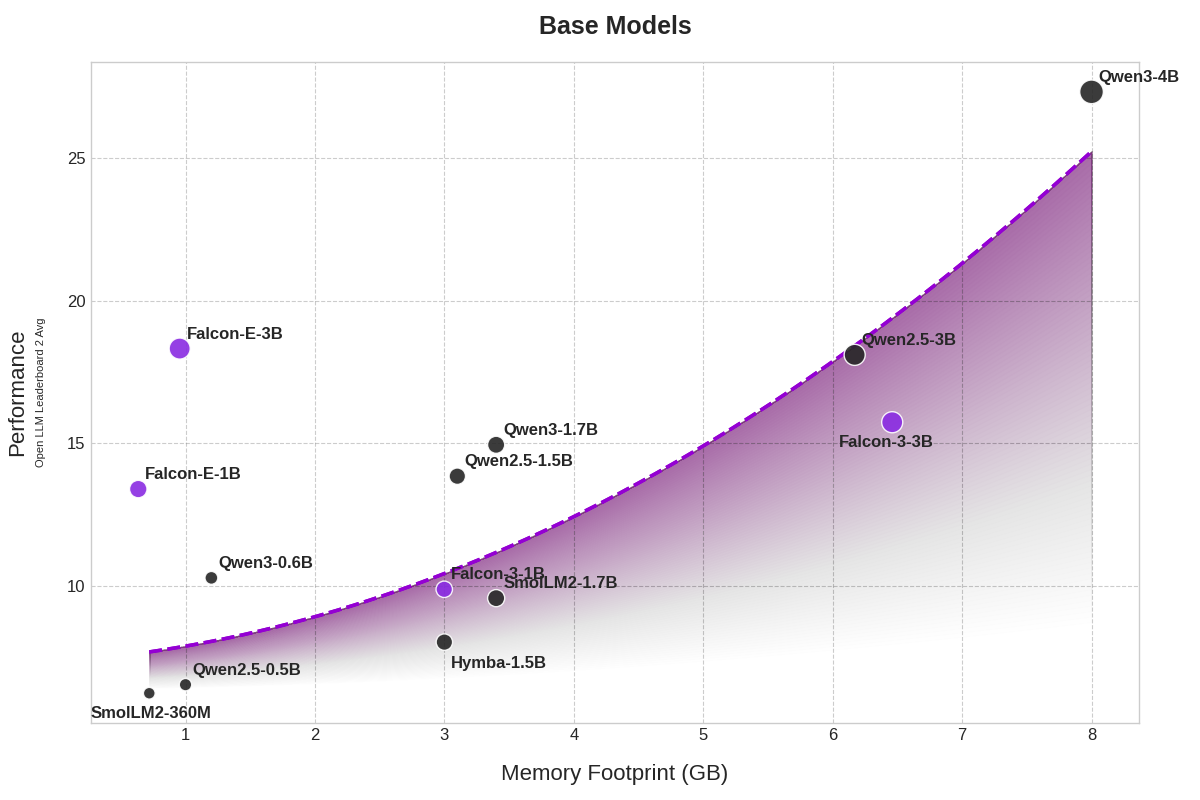
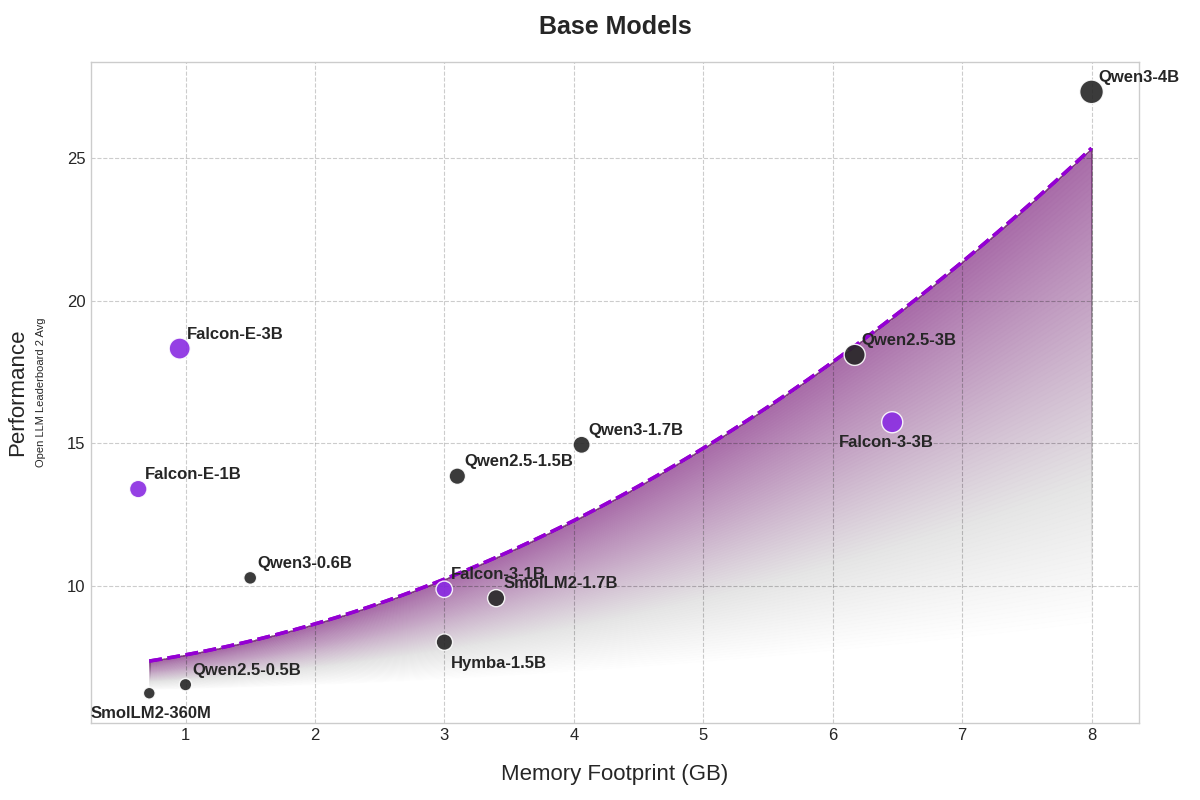
revised content with qwen3 results

diff --git a/content/blog/falcon-edge/index.md b/content/blog/falcon-edge/index.md
@@ -103,51 +103,65 @@ We evaluate our models (base and instruct versions) on the former Hugging Face l
 
 {{< barplot_vertical id="general-plt" highlight="Falcon-E-1B-Base" ymin="0" ymax="0.50" ylabel="Performance %" >}}
 [
-    { "category": "IFEVAL", "model": "Qwen-2.5-0.5B", "value": 0.1627 },
+    { "category": "IFEVAL", "model": "Qwen2.5-0.5B", "value": 0.1627 },
+    { "category": "IFEVAL", "model": "Qwen3-0.6B", "value": 0.2319 },
     { "category": "IFEVAL", "model": "SmolLM2-360M", "value": 0.2115 },
-    { "category": "IFEVAL", "model": "Qwen-2.5-1.5B", "value": 0.2674 },
+    { "category": "IFEVAL", "model": "Qwen2.5-1.5B", "value": 0.2674 },
+    { "category": "IFEVAL", "model": "Qwen3-1.7B", "value": 0.2681 },
     { "category": "IFEVAL", "model": "SmolLM2-1.7B", "value": 0.244 },
     { "category": "IFEVAL", "model": "Falcon-3-1B-Base", "value": 0.2428 },
     { "category": "IFEVAL", "model": "Falcon-E-1B-Base", "value": 0.3290 },
 
-    { "category": "Math-Hard", "model": "Qwen-2.5-0.5B", "value": 0.0393 },
+    { "category": "Math-Hard", "model": "Qwen2.5-0.5B", "value": 0.0393 },
+    { "category": "Math-Hard", "model": "Qwen3-0.6B", "value": 0.0589 },
     { "category": "Math-Hard", "model": "SmolLM2-360M", "value": 0.0121 },
-    { "category": "Math-Hard", "model": "Qwen-2.5-1.5B", "value": 0.0914 },
+    { "category": "Math-Hard", "model": "Qwen2.5-1.5B", "value": 0.0914 },
+    { "category": "Math-Hard", "model": "Qwen3-1.7B", "value": 0.1395 },
     { "category": "Math-Hard", "model": "SmolLM2-1.7B", "value": 0.0264 },
     { "category": "Math-Hard", "model": "Falcon-3-1B-Base", "value": 0.0332 },
     { "category": "Math-Hard", "model": "Falcon-E-1B-Base", "value": 0.1097 },
 
-    { "category": "GPQA", "model": "Qwen-2.5-0.5B", "value": 0.00 },
+    { "category": "GPQA", "model": "Qwen2.5-0.5B", "value": 0.00 },
+    { "category": "GPQA", "model": "Qwen3-0.6B", "value": 0.0378 },
     { "category": "GPQA", "model": "SmolLM2-360M", "value": 0.00 },
-    { "category": "GPQA", "model": "Qwen-2.5-1.5B", "value": 0.0470 },
+    { "category": "GPQA", "model": "Qwen2.5-1.5B", "value": 0.0470 },
+    { "category": "GPQA", "model": "Qwen3-1.7B", "value": 0.0671 },
     { "category": "GPQA", "model": "SmolLM2-1.7B", "value": 0.0391 },
     { "category": "GPQA", "model": "Falcon-3-1B-Base", "value": 0.0391 },
     { "category": "GPQA", "model": "Falcon-E-1B-Base", "value": 0.0280 },
 
-    { "category": "MuSR", "model": "Qwen-2.5-0.5B", "value": 0.0208 },
+    { "category": "MuSR", "model": "Qwen2.5-0.5B", "value": 0.0208 },
+    { "category": "MuSR", "model": "Qwen3-0.6B", "value": 0.0338 },
     { "category": "MuSR", "model": "SmolLM2-360M", "value": 0.0773 },
-    { "category": "MuSR", "model": "Qwen-2.5-1.5B", "value": 0.0527 },
+    { "category": "MuSR", "model": "Qwen2.5-1.5B", "value": 0.0527 },
+    { "category": "MuSR", "model": "Qwen3-1.7B", "value": 0.1364 },
     { "category": "MuSR", "model": "SmolLM2-1.7B", "value": 0.0460 },
     { "category": "MuSR", "model": "Falcon-3-1B-Base", "value": 0.0971 },
     { "category": "MuSR", "model": "Falcon-E-1B-Base", "value": 0.0365 },
 
-    { "category": "BBH", "model": "Qwen-2.5-0.5B", "value": 0.0695 },
+    { "category": "BBH", "model": "Qwen2.5-0.5B", "value": 0.0695 },
+    { "category": "BBH", "model": "Qwen3-0.6B", "value": 0.1175 },
     { "category": "BBH", "model": "SmolLM2-360M", "value": 0.0554 },
-    { "category": "BBH", "model": "Qwen-2.5-1.5B", "value": 0.1666 },
+    { "category": "BBH", "model": "Qwen2.5-1.5B", "value": 0.1666 },
+    { "category": "BBH", "model": "Qwen3-1.7B", "value": 0.2040 },
     { "category": "BBH", "model": "SmolLM2-1.7B", "value": 0.0930 },
     { "category": "BBH", "model": "Falcon-3-1B-Base", "value": 0.1134 },
     { "category": "BBH", "model": "Falcon-E-1B-Base", "value": 0.1228 },
 
-    { "category": "MMLU-Pro", "model": "Qwen-2.5-0.5B", "value": 0.1006 },
+    { "category": "MMLU-Pro", "model": "Qwen2.5-0.5B", "value": 0.1006 },
+    { "category": "MMLU-Pro", "model": "Qwen3-0.6B", "value": 0.1398 },
     { "category": "MMLU-Pro", "model": "SmolLM2-360M", "value": 0.0188 },
-    { "category": "MMLU-Pro", "model": "Qwen-2.5-1.5B", "value": 0.2061 },
+    { "category": "MMLU-Pro", "model": "Qwen2.5-1.5B", "value": 0.2061 },
+    { "category": "MMLU-Pro", "model": "Qwen3-1.7B", "value": 0.2645 },
     { "category": "MMLU-Pro", "model": "SmolLM2-1.7B", "value": 0.1264 },
     { "category": "MMLU-Pro", "model": "Falcon-3-1B-Base", "value": 0.0676 },
     { "category": "MMLU-Pro", "model": "Falcon-E-1B-Base", "value": 0.1782 },
 
-    { "category": "Avg", "model": "Qwen-2.5-0.5B", "value": 0.0655 },
+    { "category": "Avg", "model": "Qwen2.5-0.5B", "value": 0.0655 },
+    { "category": "Avg", "model": "Qwen3-0.6B", "value": 0.1032 },
     { "category": "Avg", "model": "SmolLM2-360M", "value": 0.0625 },
-    { "category": "Avg", "model": "Qwen-2.5-1.5B", "value": 0.1385 },
+    { "category": "Avg", "model": "Qwen2.5-1.5B", "value": 0.1385 },
+    { "category": "Avg", "model": "Qwen3-1.7B", "value": 0.1799 },
     { "category": "Avg", "model": "SmolLM2-1.7B", "value": 0.0958 },
     { "category": "Avg", "model": "Falcon-3-1B-Base", "value": 0.0989 },
     { "category": "Avg", "model": "Falcon-E-1B-Base", "value": 0.1340 }
@@ -156,9 +170,11 @@ We evaluate our models (base and instruct versions) on the former Hugging Face l
 
 {{< barplot_vertical id="memory-ply" highlight="Falcon-E-1B-Base" ymin="0" ymax="4" ylabel="Memory Footprint (GB)" yaxis_percentage="false" >}}
 [    
-    { "category": "Memory Footprint", "model": "Qwen-2.5-0.5B", "value": 1.0 },
+    { "category": "Memory Footprint", "model": "Qwen2.5-0.5B", "value": 1.0 },
+    { "category": "Memory Footprint", "model": "Qwen3-0.6B", "value": 1.5 },
     { "category": "Memory Footprint", "model": "SmolLM2-360M", "value": 0.720 },
-    { "category": "Memory Footprint", "model": "Qwen-2.5-1.5B", "value": 3.1 },
+    { "category": "Memory Footprint", "model": "Qwen2.5-1.5B", "value": 3.1 },
+    { "category": "Memory Footprint", "model": "Qwen3-1.7B", "value": 4.06 },
     { "category": "Memory Footprint", "model": "SmolLM2-1.7B", "value": 3.4 },
     { "category": "Memory Footprint", "model": "Falcon-3-1B-Base", "value": 3.0 },
     { "category": "Memory Footprint", "model": "Falcon-E-1B-Base", "value": 0.665 }
@@ -170,9 +186,11 @@ We evaluate our models (base and instruct versions) on the former Hugging Face l
 
 | Model    | Nb Params | Mem Footprint | IFEVAL | Math-Hard | GPQA | MuSR | BBH | MMLU-Pro | Avg. |
 | -------- | ------- | ------- | ------- | ------ | ----- | ----- | ----- | ------ | ---- |
-| Qwen-2.5-0.5B | 0.5B | 1GB | 16.27  | 3.93 | 0.0 | 2.08 | 6.95 | 10.06 | 6.55 |
+| Qwen2.5-0.5B | 0.5B | 1GB | 16.27  | 3.93 | 0.0 | 2.08 | 6.95 | 10.06 | 6.55 |
+| Qwen3-0.6B | 0.6B | 1.5GB | 23.19  | 5.89 | 3.78 | 3.38 | 11.75 | 13.98 | 10.32 |
 | SmolLM2-360M | 0.36B | 720MB | 21.15  | 1.21 | 0.0 | 7.73 | 5.54 | 1.88 | 6.25 |
-| Qwen-2.5-1.5B | 1.5B  | 3.1GB  | 26.74 | 9.14 | 16.66 | 5.27 | 20.61 | 4.7  | 13.85 |
+| Qwen2.5-1.5B | 1.5B  | 3.1GB  | 26.74 | 9.14 | 16.66 | 5.27 | 20.61 | 4.7  | 13.85 |
+| Qwen3-1.7B | 1.5B  | 4.06GB  | 26.81 | 13.95 | 6.71 | 13.65 | 20.40 | 26.45  | 17.99 |
 | SmolLM2-1.7B  | 1.7B  | 3.4GB  | 24.4  | 2.64 | 9.3   | 4.6  | 12.64 | 3.91 | 9.58  |
 | Falcon-3-1B-Base | 1.5B | 3GB   | 24.28 | 3.32 | 11.34 | 9.71 | 6.76  | 3.91 | 9.89  |
 | Falcon-E-1B-Base | 1.8B | **665MB** | 32.9  | 10.97 | 2.8 | 3.65 | 12.28 | 17.82 | 13.40 |
@@ -233,61 +251,76 @@ We evaluate our models (base and instruct versions) on the former Hugging Face l
 
 </details>
 
-Below are the results for instruction fine-tuned models:
+Below are the results for instruction fine-tuned models (for Qwen3 series, we disable the thinking mode during evaluation):
 
 {{< barplot_vertical id="instruct-plt" highlight="Falcon-E-1B-Instruct" ymin="0" ymax="0.50" ylabel="Performance %" >}}
 [
-    { "category": "IFEVAL", "model": "Qwen-2.5-0.5B", "value": 0.3071 },
+    { "category": "IFEVAL", "model": "Qwen2.5-0.5B", "value": 0.3153 },
     { "category": "IFEVAL", "model": "SmolLM2-360M", "value": 0.3842 },
-    { "category": "IFEVAL", "model": "Qwen-2.5-1.5B", "value": 0.4476 },
+    { "category": "IFEVAL", "model": "Qwen2.5-1.5B", "value": 0.4476 },
+    { "category": "IFEVAL", "model": "Qwen3-0.6B", "value": 0.6215 },
+    { "category": "IFEVAL", "model": "Qwen3-1.7B", "value": 0.7077 },
     { "category": "IFEVAL", "model": "SmolLM2-1.7B", "value": 0.5368 },
     { "category": "IFEVAL", "model": "Bitnet-b1.58-2B-4T", "value": 0.5911 },
     { "category": "IFEVAL", "model": "Falcon-3-1B-Instruct", "value": 0.5557 },
     { "category": "IFEVAL", "model": "Falcon-E-1B-Instruct", "value": 0.5435 },
 
-    { "category": "Math-Hard", "model": "Qwen-2.5-0.5B", "value": 0.0 },
+
+    { "category": "Math-Hard", "model": "Qwen2.5-0.5B", "value": 0.1035 },
+    { "category": "Math-Hard", "model": "Qwen3-0.6B", "value": 0.1615 },
     { "category": "Math-Hard", "model": "SmolLM2-360M", "value": 0.0151 },
-    { "category": "Math-Hard", "model": "Qwen-2.5-1.5B", "value": 0.2205 },
+    { "category": "Math-Hard", "model": "Qwen2.5-1.5B", "value": 0.2205 },
+    { "category": "Math-Hard", "model": "Qwen3-1.7B", "value": 0.3817 },
     { "category": "Math-Hard", "model": "SmolLM2-1.7B", "value": 0.0582 },
     { "category": "Math-Hard", "model": "Bitnet-b1.58-2B-4T", "value": 0.07233 },
     { "category": "Math-Hard", "model": "Falcon-3-1B-Instruct", "value": 0.0634 },
     { "category": "Math-Hard", "model": "Falcon-E-1B-Instruct", "value": 0.0912 },
 
-    { "category": "BBH", "model": "Qwen-2.5-0.5B", "value": 0.0843 },
+    { "category": "BBH", "model": "Qwen2.5-0.5B", "value": 0.0817 },
+    { "category": "BBH", "model": "Qwen3-0.6B", "value": 0.0613 },
     { "category": "BBH", "model": "SmolLM2-360M", "value": 0.0417 },
-    { "category": "BBH", "model": "Qwen-2.5-1.5B", "value": 0.1981 },
+    { "category": "BBH", "model": "Qwen2.5-1.5B", "value": 0.1981 },
+    { "category": "BBH", "model": "Qwen3-1.7B", "value": 0.0926 },
     { "category": "BBH", "model": "SmolLM2-1.7B", "value": 0.1092 },
     { "category": "BBH", "model": "Bitnet-b1.58-2B-4T", "value": 0.1794},
     { "category": "BBH", "model": "Falcon-3-1B-Instruct", "value": 0.0932 },
     { "category": "BBH", "model": "Falcon-E-1B-Instruct", "value": 0.1650 },
 
-    { "category": "MuSR", "model": "Qwen-2.5-0.5B", "value": 0.0094 },
+    { "category": "MuSR", "model": "Qwen2.5-0.5B", "value": 0.0137 },
+    { "category": "MuSR", "model": "Qwen3-0.6B", "value": 0.0186 },
     { "category": "MuSR", "model": "SmolLM2-360M", "value": 0.0277 },
-    { "category": "MuSR", "model": "Qwen-2.5-1.5B", "value": 0.0319 },
+    { "category": "MuSR", "model": "Qwen2.5-1.5B", "value": 0.0319 },
+    { "category": "MuSR", "model": "Qwen3-1.7B", "value": 0.0831 },
     { "category": "MuSR", "model": "SmolLM2-1.7B", "value": 0.041 },
     { "category": "MuSR", "model": "Bitnet-b1.58-2B-4T", "value": 0.0174 },
     { "category": "MuSR", "model": "Falcon-3-1B-Instruct", "value": 0.1056 },
     { "category": "MuSR", "model": "Falcon-E-1B-Instruct", "value": 0.0251 },
 
-    { "category": "MMLU-Pro", "model": "Qwen-2.5-0.5B", "value": 0.0775 },
+    { "category": "MMLU-Pro", "model": "Qwen2.5-0.5B", "value": 0.08 },
+    { "category": "MMLU-Pro", "model": "Qwen3-0.6B", "value": 0.0771 },
     { "category": "MMLU-Pro", "model": "SmolLM2-360M", "value": 0.013 },
-    { "category": "MMLU-Pro", "model": "Qwen-2.5-1.5B", "value": 0.1999 },
+    { "category": "MMLU-Pro", "model": "Qwen2.5-1.5B", "value": 0.1999 },
+    { "category": "MMLU-Pro", "model": "Qwen3-1.7B", "value": 0.1504 },
     { "category": "MMLU-Pro", "model": "SmolLM2-1.7B", "value": 0.1171 },
     { "category": "MMLU-Pro", "model": "Bitnet-b1.58-2B-4T", "value": 0.1482 },
     { "category": "MMLU-Pro", "model": "Falcon-3-1B-Instruct", "value": 0.1296 },
     { "category": "MMLU-Pro", "model": "Falcon-E-1B-Instruct", "value": 0.1942 },
 
-    { "category": "GPQA", "model": "Qwen-2.5-0.5B", "value": 0.0 },
+    { "category": "GPQA", "model": "Qwen2.5-0.5B", "value": 0.0123 },
+    { "category": "GPQA", "model": "Qwen3-0.6B", "value": 0.028 },
     { "category": "GPQA", "model": "SmolLM2-360M", "value": 0.0067 },
-    { "category": "GPQA", "model": "Qwen-2.5-1.5B", "value": 0.0078 },
+    { "category": "GPQA", "model": "Qwen2.5-1.5B", "value": 0.0078 },
+    { "category": "GPQA", "model": "Qwen3-1.7B", "value": 0.0329 },
     { "category": "GPQA", "model": "SmolLM2-1.7B", "value": 0.0 },
     { "category": "GPQA", "model": "Bitnet-b1.58-2B-4T", "value": 0.0525},
     { "category": "GPQA", "model": "Falcon-3-1B-Instruct", "value": 0.0932 },
     { "category": "GPQA", "model": "Falcon-E-1B-Instruct", "value": 0.0964 },
 
-    { "category": "Avg", "model": "Qwen-2.5-0.5B", "value": 0.0659 },
+    { "category": "Avg", "model": "Qwen2.5-0.5B", "value": 0.1011 },
+    { "category": "Avg", "model": "Qwen3-0.6B", "value": 0.1613 },
     { "category": "Avg", "model": "SmolLM2-360M", "value": 0.0814 },
-    { "category": "Avg", "model": "Qwen-2.5-1.5B", "value": 0.1843 },
+    { "category": "Avg", "model": "Qwen2.5-1.5B", "value": 0.1843 },
+    { "category": "Avg", "model": "Qwen3-1.7B", "value": 0.2414 },
     { "category": "Avg", "model": "SmolLM2-1.7B", "value": 0.1502 },
     { "category": "Avg", "model": "Bitnet-b1.58-2B-4T", "value": 0.1770},
     { "category": "Avg", "model": "Falcon-3-1B-Instruct", "value": 0.1616 },
@@ -300,9 +333,11 @@ Below are the results for instruction fine-tuned models:
 
 | Model    | Nb Params | Mem Footprint | IFEVAL | Math-Hard | GPQA | MuSR | BBH | MMLU-Pro | Avg. |
 | ----------- | ------- | ------- | ------- | ------ | ----- | ----- | ----- | ------ | ---- |
-| Qwen-2.5-0.5B-Instruct    | 500M | 1GB    | 30.71 | 0     | 0  | 0.94  | 7.75  | 8.43     | 6.59        |
+| Qwen2.5-0.5B-Instruct    | 500M | 1GB    | 31.53 | 10.35     | 1.23  | 1.37  | 8.17  | 8.00     | 10.11        |
+| Qwen3-0.6B    | 600M | 1.5GB    | 62.15 | 16.15     | 2.81  | 1.86  | 6.13  | 7.71     | 16.13        |
 | SmolLM2-360M-Instruct     | 360M | 720MB  | 38.42 | 1.51 | 0.67 | 2.77  | 4.17  | 1.3   | 8.14        |
-| Qwen-2.5-1.5B-Instruct    | 1.5B | 3.1GB  | 44.76 | 22.05 | 0.78 | 3.19  | 19.91 | 19.99 | 18.43       |
+| Qwen2.5-1.5B-Instruct    | 1.5B | 3.1GB  | 44.76 | 22.05 | 0.78 | 3.19  | 19.91 | 19.99 | 18.43       |
+| Qwen3-1.7B    | 1.7B | 4.02GB  | 70.76 | 38.17 | 3.29 | 8.32  | 9.26 | 15.04 | 24.14       |
 | SmolLM2-1.7B              | 1.7B | 3.4GB  | 53.68 | 5.82  | 0 | 4.1   | 10.92 | 11.71     | 15.02       |
 | Bitnet-b1.58-2B-4T             | 2B | 1.18GB  | 59.11 | 7.23  | 5.25 | 1.74   | 17.94 | 14.82     | 17.70       |
 | Falcon-3-1B-Instruct      | 1.5B | 3GB    | 55.57 | 6.34  | 2.24 | 10.56 | 12.96  | 9.32  | 16.16       |
